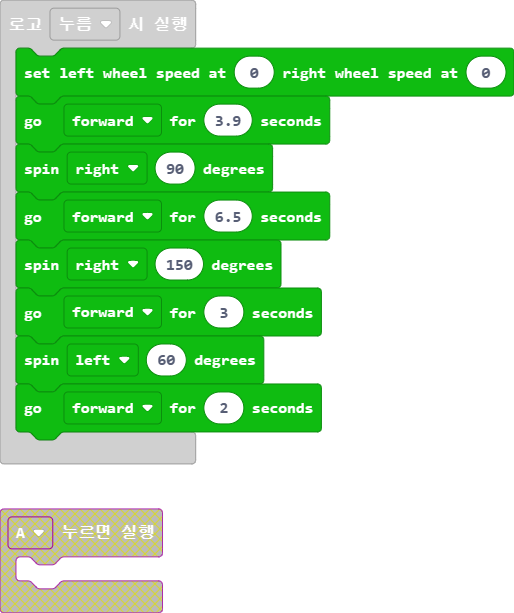
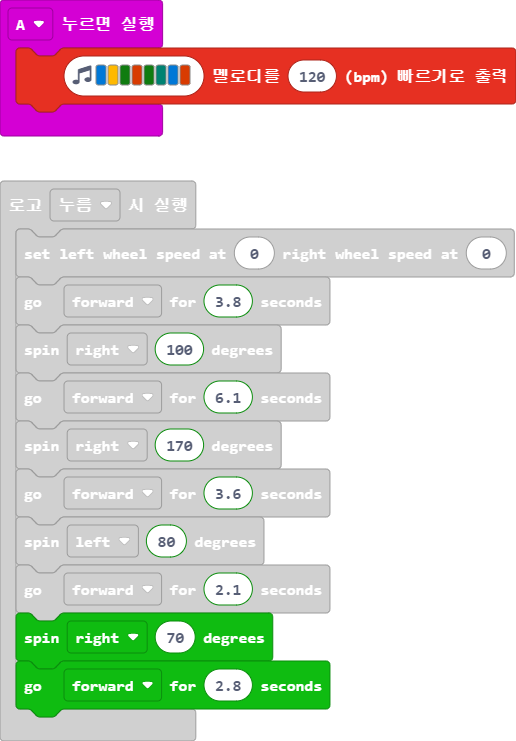
main.blocks, main.ts 업데이트하기

diff --git a/main.ts b/main.ts
@@ -1,12 +1,17 @@
 input.onLogoEvent(TouchButtonEvent.Pressed, function () {
     RingbitCar.freestyle(0, 0)
-    RingbitCar.running_time(RingbitCar.Direction_run.forward, 3.9)
-    RingbitCar.steering_angle(RingbitCar.Direction_turn.right, 90)
-    RingbitCar.running_time(RingbitCar.Direction_run.forward, 6.5)
-    RingbitCar.steering_angle(RingbitCar.Direction_turn.right, 150)
-    RingbitCar.running_time(RingbitCar.Direction_run.forward, 3)
-    RingbitCar.steering_angle(RingbitCar.Direction_turn.left, 60)
-    RingbitCar.running_time(RingbitCar.Direction_run.forward, 2)
+    RingbitCar.running_time(RingbitCar.Direction_run.forward, 3.8)
+    RingbitCar.steering_angle(RingbitCar.Direction_turn.right, 100)
+    RingbitCar.running_time(RingbitCar.Direction_run.forward, 6.1)
+    RingbitCar.steering_angle(RingbitCar.Direction_turn.right, 170)
+    RingbitCar.running_time(RingbitCar.Direction_run.forward, 3.6)
+    RingbitCar.steering_angle(RingbitCar.Direction_turn.left, 80)
+    RingbitCar.running_time(RingbitCar.Direction_run.forward, 2.1)
+    RingbitCar.steering_angle(RingbitCar.Direction_turn.right, 70)
+    RingbitCar.running_time(RingbitCar.Direction_run.forward, 2.8)
+})
+input.onButtonPressed(Button.A, function () {
+    music.playMelody("E A G B G F E B ", 120)
 })
 input.onButtonPressed(Button.B, function () {
     RingbitCar.brake()
